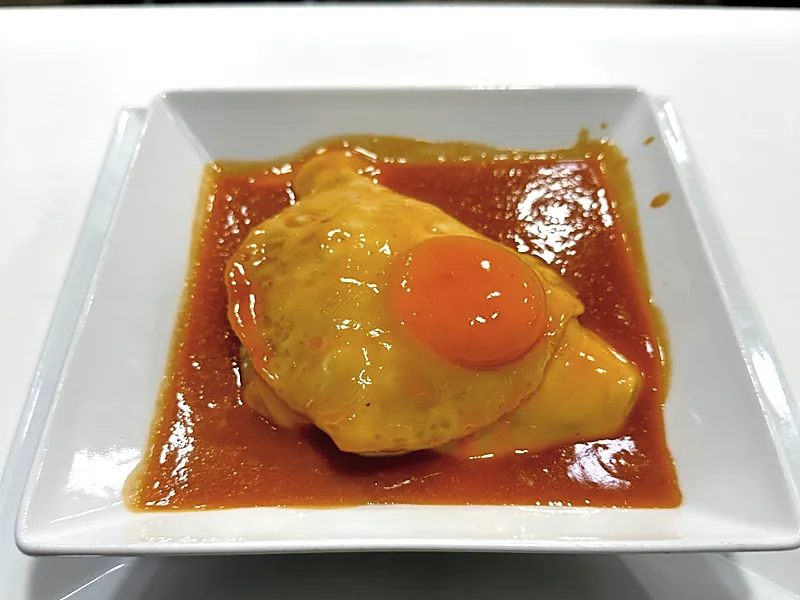
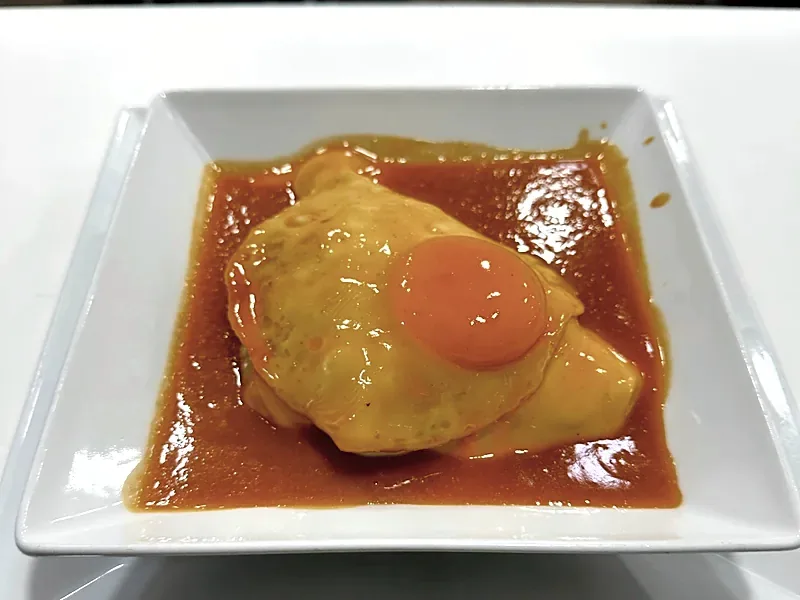
Topo sem pausa, botao Ver Menu em todos os pratos, meia especial menos saturada

diff --git a/index.html b/index.html
@@ -31,8 +31,8 @@
 <link rel="preload" as="font" type="font/woff2" href="/fonts/barlow-500-latin.woff2" crossorigin>
 <link rel="preload" as="font" type="font/woff2" href="/fonts/barlow-600-latin.woff2" crossorigin>
 <link rel="preload" as="font" type="font/woff2" href="/fonts/barlow-condensed-600-latin.woff2" crossorigin>
-<link rel="stylesheet" href="/css/estilo.css?v=34f4a551">
-<meta name="versao" content="34f4a551">
+<link rel="stylesheet" href="/css/estilo.css?v=7081f694">
+<meta name="versao" content="7081f694">
 <script>document.documentElement.classList.add("js");setTimeout(function(){document.documentElement.classList.add("pronto")},1500);try{var l=(localStorage.getItem("idioma")||navigator.language||"pt").slice(0,2).toLowerCase();if(/^(en|fr|de|es)$/.test(l)){var k=document.createElement("link");k.rel="preload";k.as="script";k.href="/js/traducoes.js?v="+document.querySelector("meta[name=versao]").content;document.head.appendChild(k)}}catch(e){}</script>
 </head>
 <body>
@@ -235,13 +235,13 @@
 <a class="barra-ligar" data-tel="encomendas" data-rotulo="Ligar para encomendar"></a>
 
 <button type="button" class="pedido-flutuante" id="pedidoBtn" hidden aria-haspopup="dialog"><span class="pedido-ic" aria-hidden="true">🧾</span><span id="pedidoBtnTxt">O meu pedido</span> <b id="pedidoBtnN">0</b></button>
-<script defer src="/js/idiomas.js?v=34f4a551"></script>
-<script defer src="/js/menu.js?v=34f4a551"></script>
-<script defer src="/js/cafe.js?v=34f4a551"></script>
-<script defer src="/js/ui-base.js?v=34f4a551"></script>
-<script defer src="/js/ui-menu.js?v=34f4a551"></script>
-<script defer src="/js/ui-pedido.js?v=34f4a551"></script>
-<script defer src="/js/ui-pesquisa.js?v=34f4a551"></script>
-<script defer src="/js/ui-topo.js?v=34f4a551"></script>
+<script defer src="/js/idiomas.js?v=7081f694"></script>
+<script defer src="/js/menu.js?v=7081f694"></script>
+<script defer src="/js/cafe.js?v=7081f694"></script>
+<script defer src="/js/ui-base.js?v=7081f694"></script>
+<script defer src="/js/ui-menu.js?v=7081f694"></script>
+<script defer src="/js/ui-pedido.js?v=7081f694"></script>
+<script defer src="/js/ui-pesquisa.js?v=7081f694"></script>
+<script defer src="/js/ui-topo.js?v=7081f694"></script>
 </body>
 </html>

diff --git a/sw.js b/sw.js
@@ -4,7 +4,7 @@
    - Código (js e css): tenta a rede primeiro, com a cópia guardada como reserva.
    - Fotos, ícones e letras: usa a cópia guardada e atualiza-a quando houver rede.
    O número em VERSAO é escrito sozinho por scripts/gerar-dados.py (muda sempre que o código muda). */
-const VERSAO = "cafe-principe-34f4a551";
+const VERSAO = "cafe-principe-7081f694";
 const INICIO = new URL("/", self.location.origin).href;
 const PRE = ["/", "/css/estilo.css", "/js/idiomas.js", "/js/traducoes.js", "/js/menu.js", "/js/cafe.js", "/js/ui-base.js", "/js/ui-menu.js", "/js/ui-pedido.js", "/js/ui-pesquisa.js", "/js/ui-topo.js", "/favicon.svg", "/apple-touch-icon.png", "/img/francesinha-especial.webp"].map(u => new URL(u, INICIO).href);
 

diff --git a/js/ui-topo.js b/js/ui-topo.js
@@ -11,7 +11,7 @@ let topoAtualizar = () => { escreverTitulo(T(principal.titulo)); heroTexto.textC
 const outros = (CAFE.slides || []).map(sl => {
   for(const [cat, itens] of Object.entries(MENU)){
     const p = itens.find(x => x.nome === sl.prato);
-    if(p) return {titulo:sl.frase || p.nome, frase:sl.frase, texto:p.desc, nomePrato:p.nome, preco:p.preco, botao:"Ver prato", cat, prato:p.nome, foto:sl.foto};
+    if(p) return {titulo:sl.frase || p.nome, frase:sl.frase, texto:p.desc, nomePrato:p.nome, preco:p.preco, botao:principal.botao, cat:"", prato:"", foto:sl.foto};
   }
   return null;
 }).filter(Boolean);

diff --git a/css/estilo.css b/css/estilo.css
@@ -608,3 +608,6 @@ html.js:not(.pronto) body > :not(header):not(script):not(link):not(style){visibi
 .btn--xl{box-shadow:none}
 .hero-entrada>.btn{animation:entra .4s cubic-bezier(.2,.8,.2,1) .1s backwards}
 .btn::after{display:none}
+
+/* sem botão de pausa na foto do topo (em nenhum ecrã) */
+.pausa{display:none!important}
